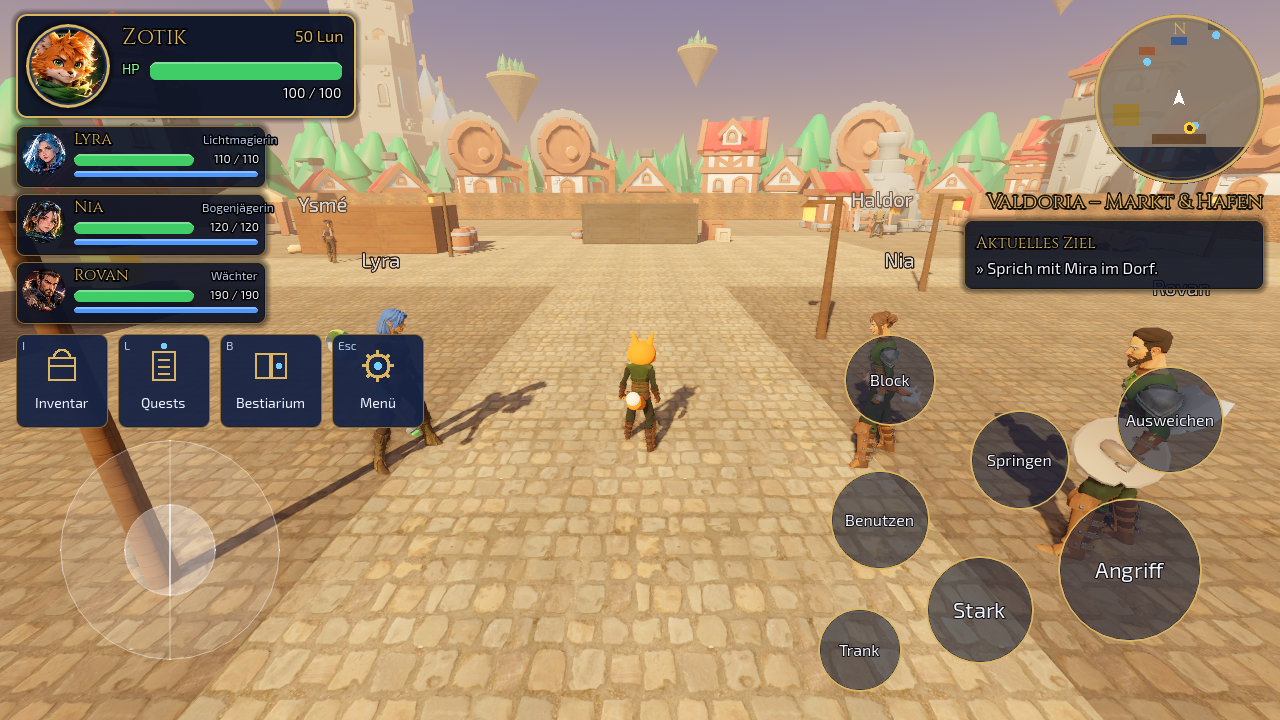
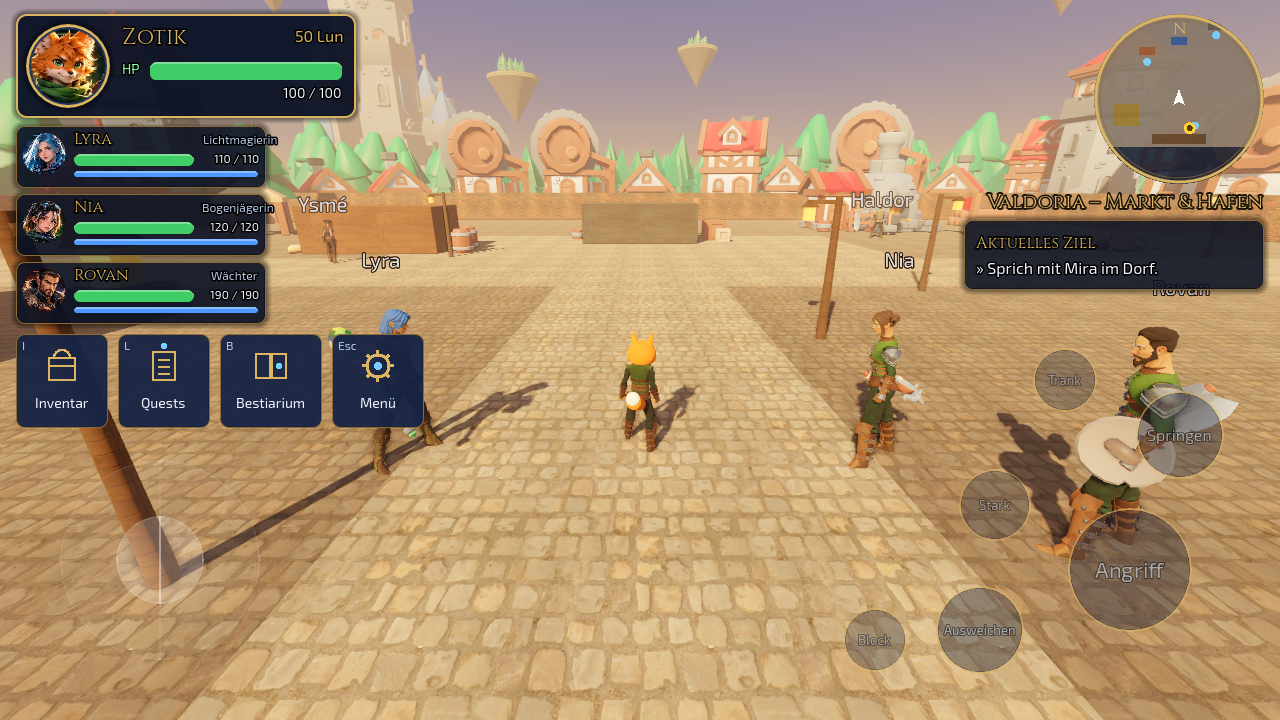
A02: calmer touch controls, contextual Benutzen, tap persons/chests/enemies, touch size and opacity settings
Claude-Session: https://claude.ai/code/session_01D64FBPKosMPWYDNkmQT7wn

diff --git a/docs/MILESTONE_LOG.md b/docs/MILESTONE_LOG.md
@@ -618,3 +618,17 @@ Standing owner approval was recorded in `CLAUDE.md` (rule 8 update). The plan is
 - Sandstorm: layout key `sandstorm` makes the fog dense and warm. It is cheap, so it also runs on Android and Web.
 - 4 new tests (`test_s02_dunes`), screenshot 17.
 - Regression: 205/205 tests plus restart checks for chapters 1–3: PASS.
+## A02 Touch usability – PASSED (owner: "auf Android noch blöd bedienbar", "irritierende Flächen", "muss per Touch steuerbar sein")
+- Fewer and calmer on-screen controls:
+  - Big: Angriff, Ausweichen, Springen. Small: Stark, Block, Trank.
+  - Translucent at rest (60 %), brighter while pressed.
+  - "Benutzen" appears only while something can be used, and pulses.
+- Tap the world:
+  - tap a person, chest, stone or sign to use it (a "Geh näher heran." hint if too far)
+  - tap an enemy to lock on
+  - swipes and stick drags are not taps (max 0.25 s, 20 px)
+- Settings in the pause menu (touch mode only): size 80/100/120/140 %, opacity 35/60/85 %. Stored with the other settings.
+- Stick and buttons scale from their screen corners and stay inside the screen.
+- 5 new tests in `test_a01_touch` (context button, calm layout + settings, tap person, tap far, tap enemy, tap vs swipe).
+- Not done: menus are still the same size. Compact HUD frames on small phones and gyro/pinch camera are open ideas.
+- Regression: 211/211 tests plus restart checks for chapters 1–3: PASS.

diff --git a/CLAUDE.md b/CLAUDE.md
@@ -3,7 +3,7 @@
 PROJECT: ZOTIK – Die Splitter der Welten
 ENGINE TARGET: Godot 4.7
 CURRENT PHASE: Phase 4 – Solmera (owner request 2026-10-03, see docs/PHASE_4_PLAN.md)
-CURRENT MILESTONE: S02_DUNES
+CURRENT MILESTONE: A02_TOUCH_UX
 STATUS: Phase 1 PASSED (M00–M15); Phase 2 PASSED (E00–E08); Phase 3 PASSED (V00–V06); Graphics pass PASSED (G01–G05, A01, U01, U02, C01); Phase 4 in progress (S00–S02 PASSED)
 
 ## Mandatory workflow
